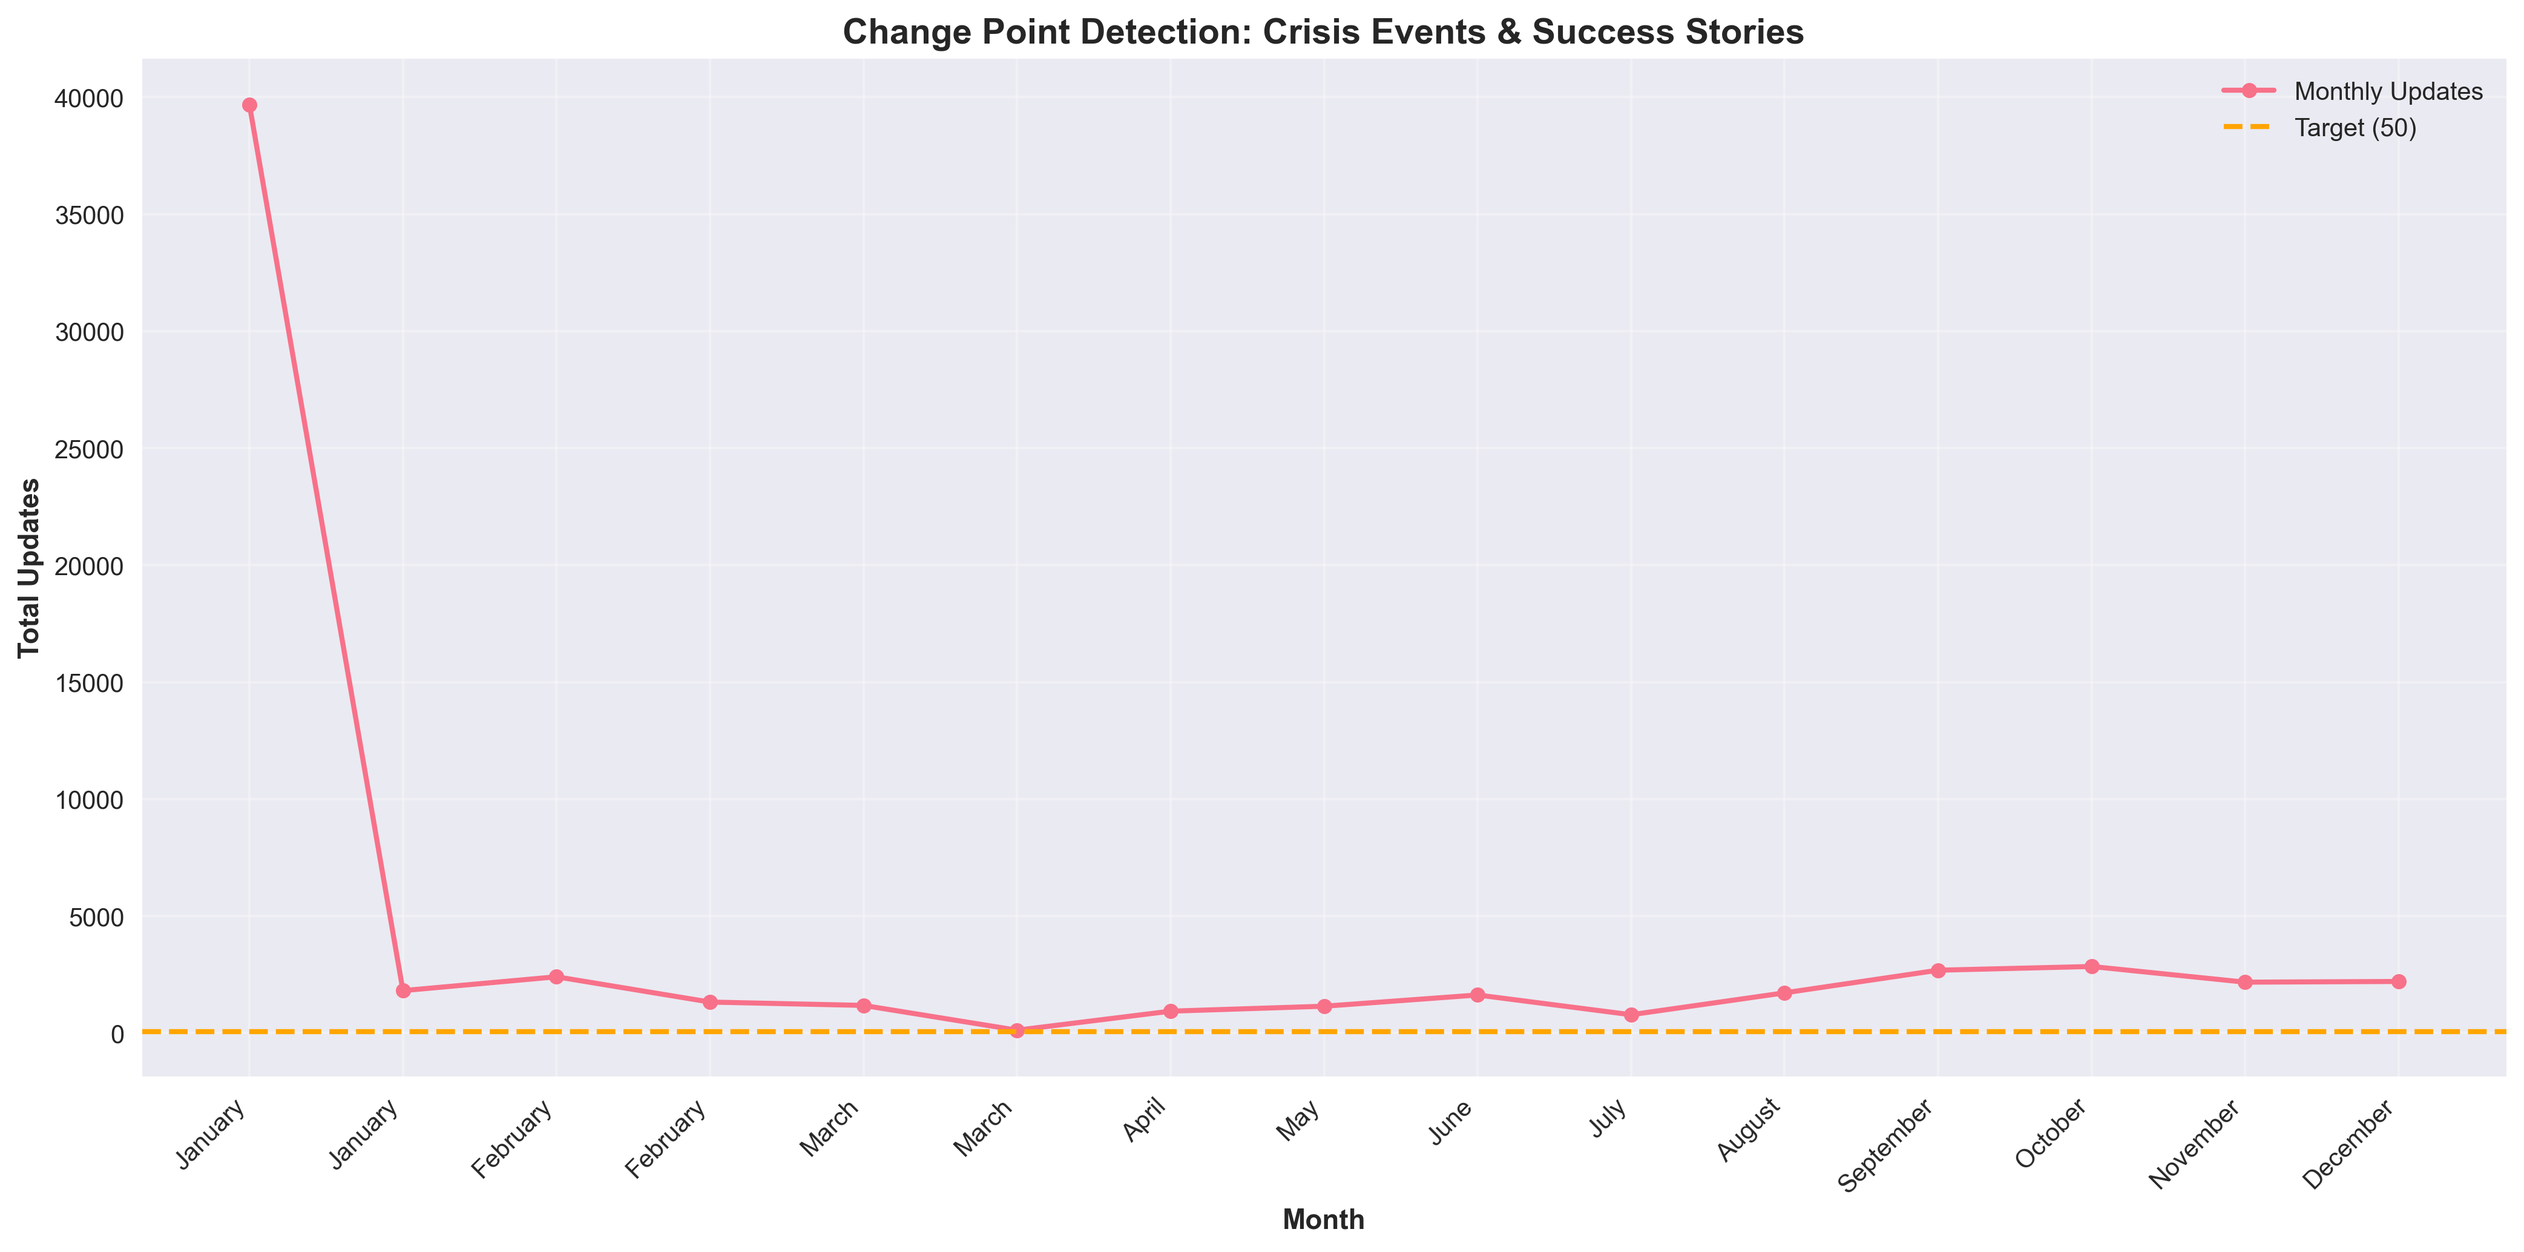
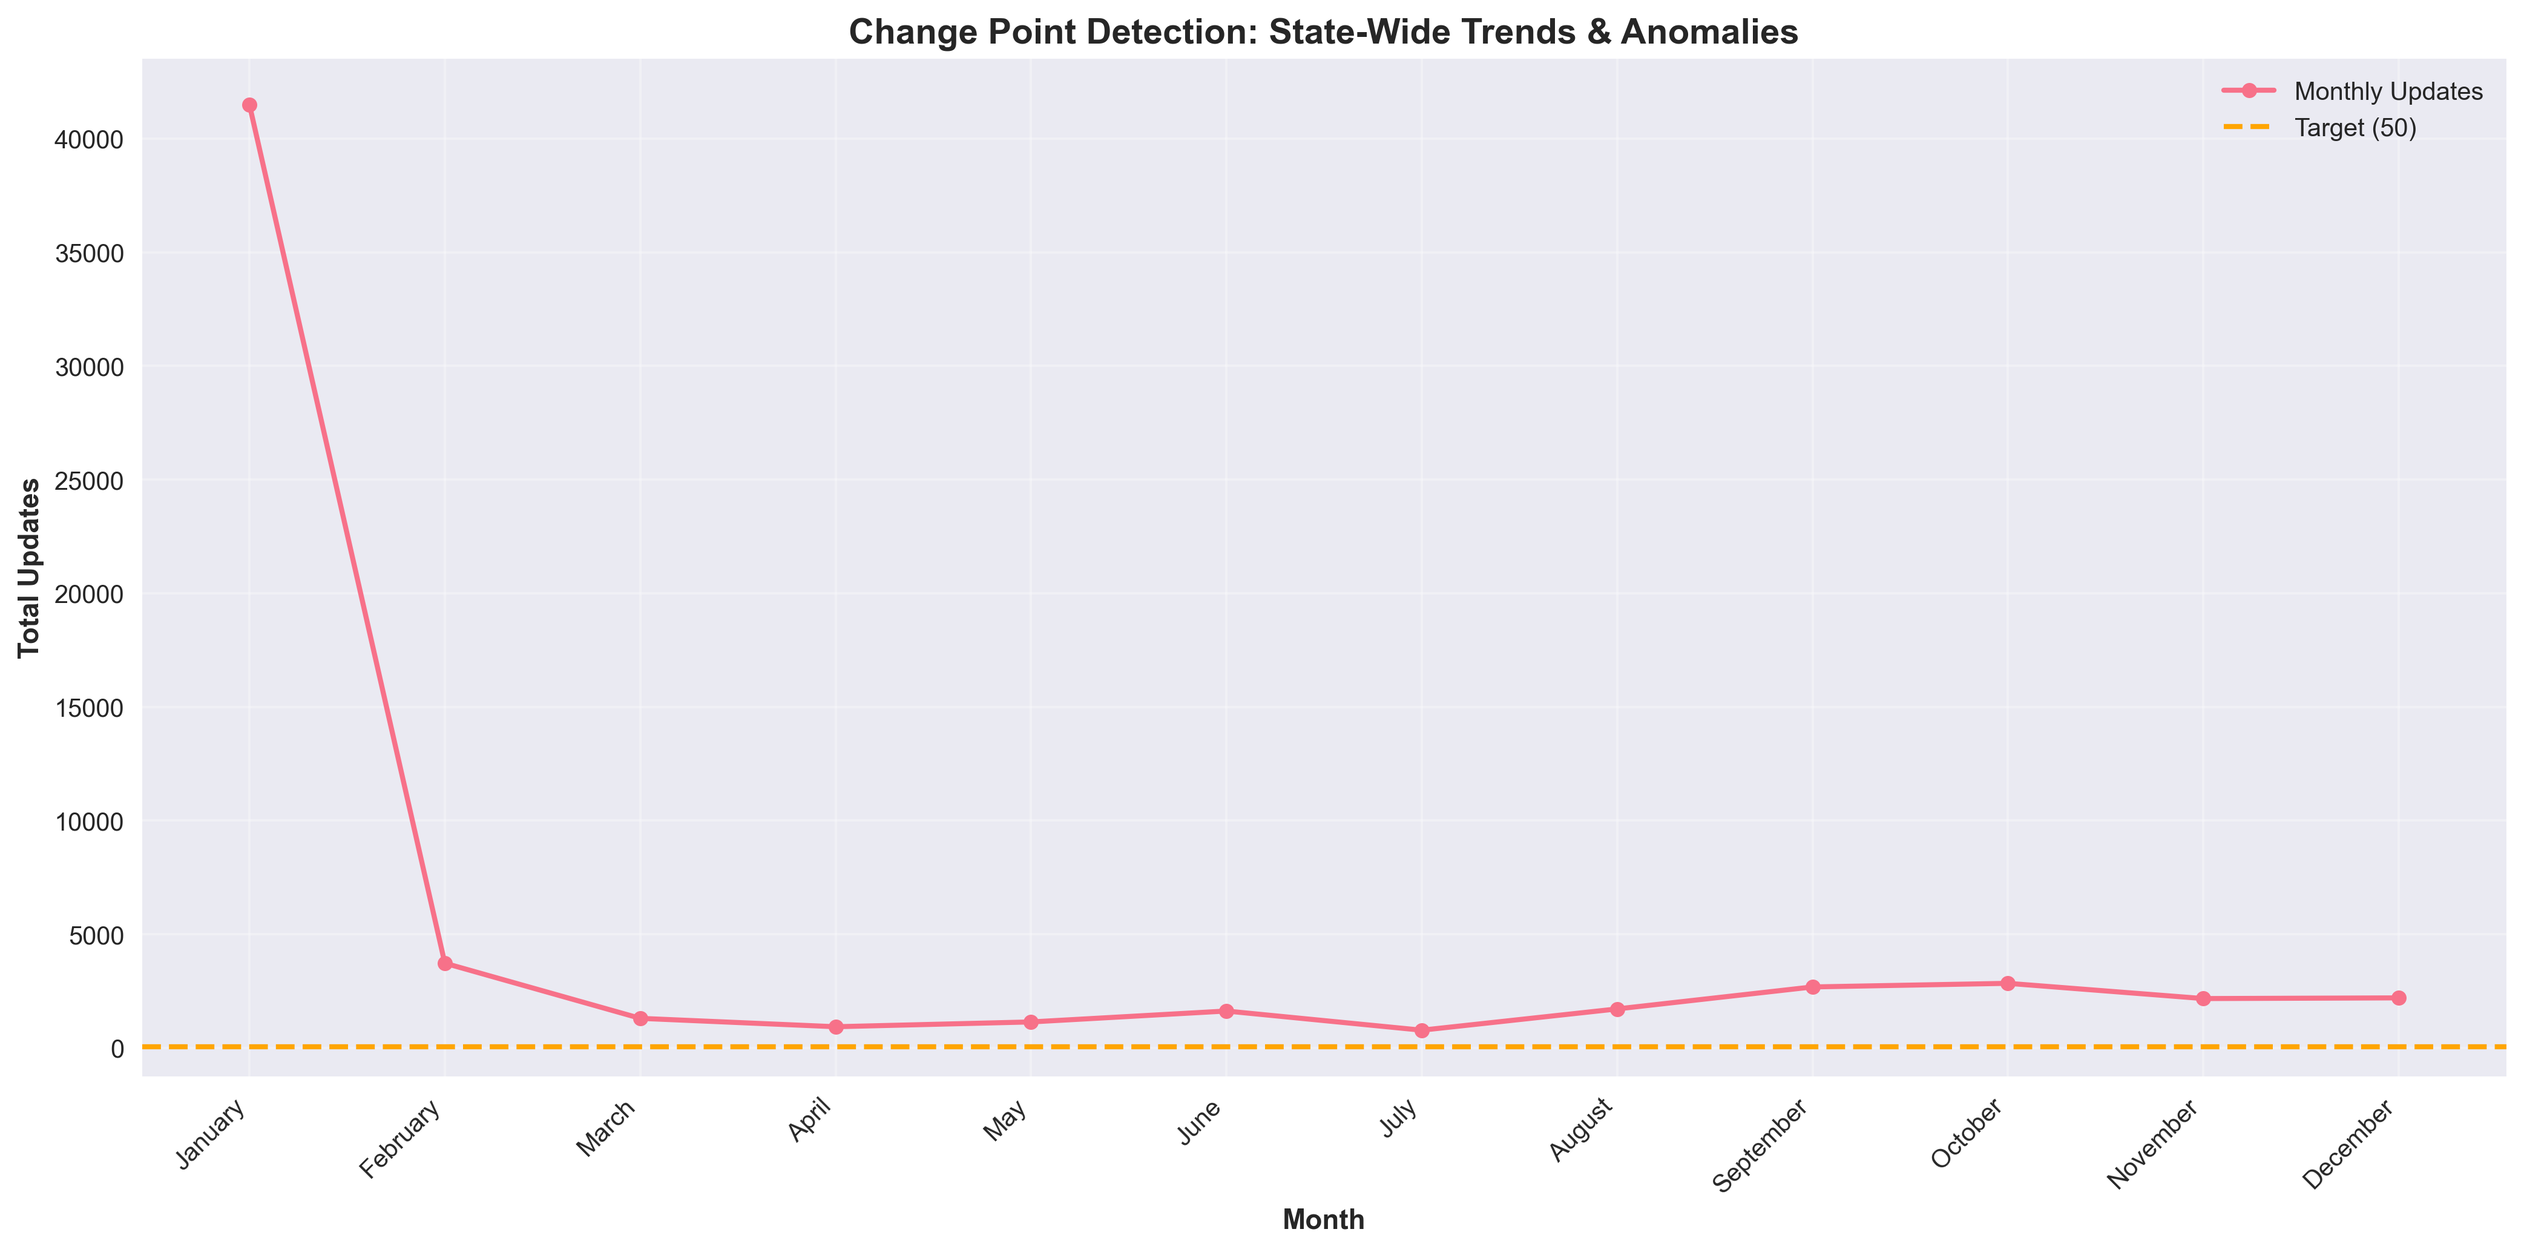
updated changes

diff --git a/src/utils/statistics.py b/src/utils/statistics.py
@@ -545,6 +545,9 @@ def plot_district_performance_dashboard(district_agg: pd.DataFrame, output_dir: 
 def plot_month_wise_heatmap(monthly_summary: pd.DataFrame, output_dir: Path):
     """Create month-wise heatmap with district names."""
     district_col = monthly_summary.columns[0]
+
+    # Grouping to combine different years into a single month entry
+    seasonal_summary = monthly_summary.groupby('month')['monthly_updates'].sum().reset_index()
     
     # Pivot for heatmap
     pivot_data = monthly_summary.pivot_table(
@@ -697,66 +700,73 @@ def plot_univariate_stats(df: pd.DataFrame, columns: list[str], output_dir: Path
 
 
 def plot_stl_decomposition(stl_df: pd.DataFrame, month_col: str, value_col: str, output_dir: Path):
-    """STL decomposition plot with policy context."""
+    """STL decomposition plot with duplicate month fix."""
     fig, axes = plt.subplots(4, 1, figsize=(14, 12))
     fig.suptitle('Temporal Decomposition: Trend, Seasonality & Anomalies', fontsize=16, fontweight='bold')
-    
+
+    # 1. FIX: Aggregate data by month to ensure each label appears only once
+    # We take the mean for trend/seasonal/residual and sum for the raw values
+    plot_df = stl_df.groupby(month_col).agg({
+        value_col: 'sum',
+        'trend': 'mean',
+        'seasonal': 'mean',
+        'residual': 'mean',
+        'meets_monthly_target': 'max',  # If any district met target, mark as met
+        'concerning_drop': 'max',
+        'trend_direction': 'first'      # Keep the general trend label
+    }).reset_index()
+
+    # 2. Re-apply categorical ordering after aggregation
     month_order = ['January', 'February', 'March', 'April', 'May', 'June', 
                    'July', 'August', 'September', 'October', 'November', 'December']
-    stl_df[month_col] = pd.Categorical(stl_df[month_col], categories=month_order, ordered=True)
-    stl_df = stl_df.sort_values(month_col)
+    plot_df[month_col] = pd.Categorical(plot_df[month_col], categories=month_order, ordered=True)
+    plot_df = plot_df.sort_values(month_col).reset_index(drop=True)
     
-    x_pos = range(len(stl_df))
+    # 3. Use a clean range for x-axis positions
+    x_pos = np.arange(len(plot_df))
     
-    axes[0].plot(x_pos, stl_df[value_col], marker='o', linewidth=2, markersize=6)
+    # --- Subplot 0: Original ---
+    axes[0].plot(x_pos, plot_df[value_col], marker='o', linewidth=2, markersize=6)
     axes[0].axhline(y=POLICY_THRESHOLDS['monthly_target'], color='red', linestyle='--', linewidth=2, label='Monthly Target')
     
-    below_target = stl_df[~stl_df['meets_monthly_target']]
+    below_target = plot_df[plot_df[value_col] < POLICY_THRESHOLDS['monthly_target']]
     if not below_target.empty:
-        below_idx = [list(stl_df[month_col]).index(m) for m in below_target[month_col]]
-        axes[0].scatter(below_idx, below_target[value_col], color='red', s=100, zorder=5, label='Below Target')
+        axes[0].scatter(below_target.index, below_target[value_col], color='red', s=100, zorder=5, label='Below Target')
     
     axes[0].set_title('Original Series (Red dots = Below Target)', fontweight='bold')
-    axes[0].set_xticks(x_pos)
-    axes[0].set_xticklabels(stl_df[month_col], rotation=45, ha='right')
-    axes[0].legend()
-    axes[0].grid(True, alpha=0.3)
-    
-    axes[1].plot(x_pos, stl_df['trend'], marker='s', linewidth=2, markersize=6)
-    
-    for i, direction in enumerate(stl_df['trend_direction']):
-        if direction == 'increasing':
-            axes[1].scatter(i, stl_df['trend'].iloc[i], color='green', s=100, zorder=5)
-        elif direction == 'decreasing':
-            axes[1].scatter(i, stl_df['trend'].iloc[i], color='red', s=100, zorder=5)
-    
+
+    # --- Subplot 1: Trend ---
+    axes[1].plot(x_pos, plot_df['trend'], marker='s', linewidth=2, markersize=6)
+    for i, direction in enumerate(plot_df['trend_direction']):
+        color = 'green' if direction == 'increasing' else 'red' if direction == 'decreasing' else 'blue'
+        if direction in ['increasing', 'decreasing']:
+            axes[1].scatter(i, plot_df['trend'].iloc[i], color=color, s=100, zorder=5)
     axes[1].set_title('Trend (Green=Increasing, Red=Decreasing)', fontweight='bold')
-    axes[1].set_xticks(x_pos)
-    axes[1].set_xticklabels(stl_df[month_col], rotation=45, ha='right')
-    axes[1].grid(True, alpha=0.3)
-    
-    axes[2].plot(x_pos, stl_df['seasonal'], marker='^', linewidth=2, markersize=6, color='purple')
+
+    # --- Subplot 2: Seasonal ---
+    axes[2].plot(x_pos, plot_df['seasonal'], marker='^', linewidth=2, markersize=6, color='purple')
     axes[2].axhline(y=0, color='black', linestyle='-', linewidth=0.5)
-    axes[2].fill_between(x_pos, 0, stl_df['seasonal'], alpha=0.3, color='purple')
+    axes[2].fill_between(x_pos, 0, plot_df['seasonal'], alpha=0.3, color='purple')
     axes[2].set_title('Seasonal Pattern', fontweight='bold')
-    axes[2].set_xticks(x_pos)
-    axes[2].set_xticklabels(stl_df[month_col], rotation=45, ha='right')
-    axes[2].grid(True, alpha=0.3)
-    
-    axes[3].plot(x_pos, stl_df['residual'], marker='o', linewidth=2, markersize=6, color='gray')
+
+    # --- Subplot 3: Residual ---
+    axes[3].plot(x_pos, plot_df['residual'], marker='o', linewidth=2, markersize=6, color='gray')
     axes[3].axhline(y=0, color='black', linestyle='-', linewidth=0.5)
     
-    concerning = stl_df[stl_df['concerning_drop']]
+    concerning = plot_df[plot_df['concerning_drop'] == True]
     if not concerning.empty:
-        concerning_idx = [list(stl_df[month_col]).index(m) for m in concerning[month_col]]
-        axes[3].scatter(concerning_idx, concerning['residual'], color='red', s=150, zorder=5, 
-                       marker='v', label='Concerning Drop (>30%)')
-    
+        axes[3].scatter(concerning.index, concerning['residual'], color='red', s=150, zorder=5, 
+                       marker='v', label='Concerning Drop')
     axes[3].set_title('Residual (Unexpected Variations)', fontweight='bold')
-    axes[3].set_xticks(x_pos)
-    axes[3].set_xticklabels(stl_df[month_col], rotation=45, ha='right')
+
+    # 4. Apply unique month labels to all subplots
+    for ax in axes:
+        ax.set_xticks(x_pos)
+        ax.set_xticklabels(plot_df[month_col], rotation=45, ha='right')
+        ax.grid(True, alpha=0.3)
+    
+    axes[0].legend()
     axes[3].legend()
-    axes[3].grid(True, alpha=0.3)
     
     plt.tight_layout()
     plt.savefig(output_dir / 'stl_decomposition_policy.png', dpi=300, bbox_inches='tight')
@@ -765,49 +775,60 @@ def plot_stl_decomposition(stl_df: pd.DataFrame, month_col: str, value_col: str,
 
 
 def plot_change_point_detection(cpd_df: pd.DataFrame, output_dir: Path):
-    """Change point detection plot with policy context."""
+    """Change point detection plot with duplicate month fix."""
     fig, ax = plt.subplots(figsize=(14, 7))
     
+    # 1. AGGREGATE: Collapse multiple rows per month into state-wide totals
+    # We sum the values and take the 'max' for categorical/boolean flags
+    plot_df = cpd_df.groupby('month').agg({
+        'value': 'sum',
+        'change_type': 'max',  # Prioritizes 'sudden_improvement' or 'crisis_drop' over 'normal'
+    }).reset_index()
+    
+    # 2. SORT: Ensure chronological order
     month_order = ['January', 'February', 'March', 'April', 'May', 'June', 
                    'July', 'August', 'September', 'October', 'November', 'December']
-    cpd_df['month'] = pd.Categorical(cpd_df['month'], categories=month_order, ordered=True)
-    cpd_df = cpd_df.sort_values('month')
+    plot_df['month'] = pd.Categorical(plot_df['month'], categories=month_order, ordered=True)
+    plot_df = plot_df.sort_values('month').reset_index(drop=True)
     
-    x_pos = range(len(cpd_df))
+    # 3. PLOT: Use unique positions
+    x_pos = np.arange(len(plot_df))
+    ax.plot(x_pos, plot_df['value'], linewidth=2, marker='o', markersize=6, label='Monthly Updates')
     
-    ax.plot(x_pos, cpd_df['value'], linewidth=2, marker='o', markersize=6, label='Monthly Updates')
-    
-    crisis_points = cpd_df[cpd_df['change_type'] == 'crisis_drop']
-    improvement_points = cpd_df[cpd_df['change_type'] == 'sudden_improvement']
+    # Identify specific change points in the aggregated data
+    crisis_points = plot_df[plot_df['change_type'] == 'crisis_drop']
+    improvement_points = plot_df[plot_df['change_type'] == 'sudden_improvement']
     
     if not crisis_points.empty:
-        crisis_idx = [list(cpd_df['month']).index(m) for m in crisis_points['month']]
-        ax.scatter(crisis_idx, crisis_points['value'], color='red', s=200, zorder=5, 
-                  marker='v', label=' Crisis Drop', edgecolors='darkred', linewidths=2)
+        ax.scatter(crisis_points.index, crisis_points['value'], color='red', s=200, zorder=5, 
+                  marker='v', label='⚠ Crisis Drop', edgecolors='darkred', linewidths=2)
         
-        for idx, row in zip(crisis_idx, crisis_points.itertuples()):
-            ax.annotate('INVESTIGATE', xy=(idx, row.value), xytext=(idx, row.value * 1.2),
+        for idx, row in crisis_points.iterrows():
+            ax.annotate('INVESTIGATE', xy=(idx, row['value']), xytext=(idx, row['value'] * 1.2),
                        arrowprops=dict(arrowstyle='->', color='red', lw=2),
                        fontsize=9, color='red', fontweight='bold', ha='center')
     
     if not improvement_points.empty:
-        improve_idx = [list(cpd_df['month']).index(m) for m in improvement_points['month']]
-        ax.scatter(improve_idx, improvement_points['value'], color='green', s=200, zorder=5, 
-                  marker='^', label=' Improvement', edgecolors='darkgreen', linewidths=2)
+        ax.scatter(improvement_points.index, improvement_points['value'], color='green', s=200, zorder=5, 
+                  marker='^', label='✅ Success!', edgecolors='darkgreen', linewidths=2)
         
-        for idx, row in zip(improve_idx, improvement_points.itertuples()):
-            ax.annotate('SUCCESS!', xy=(idx, row.value), xytext=(idx, row.value * 0.8),
+        for idx, row in improvement_points.iterrows():
+            ax.annotate('SUCCESS!', xy=(idx, row['value']), xytext=(idx, row['value'] * 0.8),
                        arrowprops=dict(arrowstyle='->', color='green', lw=2),
                        fontsize=9, color='green', fontweight='bold', ha='center')
     
+    # Target line using POLICY_THRESHOLDS
     ax.axhline(y=POLICY_THRESHOLDS['monthly_target'], color='orange', linestyle='--', 
               linewidth=2, label=f'Target ({POLICY_THRESHOLDS["monthly_target"]})')
     
-    ax.set_title('Change Point Detection: Crisis Events & Success Stories', fontsize=14, fontweight='bold')
+    ax.set_title('Change Point Detection: State-Wide Trends & Anomalies', fontsize=14, fontweight='bold')
     ax.set_xlabel('Month', fontweight='bold')
     ax.set_ylabel('Total Updates', fontweight='bold')
+    
+    # Apply unique month labels
     ax.set_xticks(x_pos)
-    ax.set_xticklabels(cpd_df['month'], rotation=45, ha='right')
+    ax.set_xticklabels(plot_df['month'], rotation=45, ha='right')
+    
     ax.legend(loc='best', fontsize=10)
     ax.grid(True, alpha=0.3)
     
@@ -956,88 +977,13 @@ def process_statistics_for_state(state: str, data_dir: str = 'Data/Processed/enr
     with open(state_reports_dir / 'statistics_results.json', 'w') as f:
         json.dump(results, f, indent=4, default=str)
     
-    # Enhanced policy brief
-    with open(state_reports_dir / 'policy_brief.txt', 'w') as f:
-        f.write(f"{'='*80}\n")
-        f.write(f"POLICY BRIEF: {state.upper()}\n")
-        f.write(f"{'='*80}\n\n")
-        
-        f.write("EXECUTIVE SUMMARY\n")
-        f.write("-" * 80 + "\n")
-        for line in policy_insights['executive_summary']:
-            f.write(f"{line}\n")
-        f.write("\n")
-        
-        f.write("CRITICAL DISTRICTS - IMMEDIATE ACTION REQUIRED\n")
-        f.write("-" * 80 + "\n")
-        for i, district in enumerate(policy_insights['critical_districts'][:15], 1):
-            f.write(f"\n{i}. {district['district_name']}\n")
-            f.write(f"   Total Updates: {district['total_updates']}\n")
-            f.write(f"   Daily Average: {district['average_daily']:.2f}\n")
-            f.write(f"   Gap from Target: {district['performance_gap']:.0f}\n")
-            f.write(f"   Priority: {district['priority']}\n")
-        f.write("\n")
-        
-        f.write("MONTH-WISE ANOMALIES - INVESTIGATION REQUIRED\n")
-        f.write("-" * 80 + "\n")
-        for i, anomaly in enumerate(policy_insights['month_wise_anomalies'][:15], 1):
-            f.write(f"\n{i}. {anomaly['district_name']} - {anomaly['month']}\n")
-            f.write(f"   Z-Score: {anomaly['z_score']:.2f}\n")
-            f.write(f"   Severity: {anomaly['severity']}\n")
-            f.write(f"   Action: {anomaly['action']}\n")
-        f.write("\n")
-        
-        f.write("SUCCESS STORIES - REPLICATE BEST PRACTICES\n")
-        f.write("-" * 80 + "\n")
-        for i, success in enumerate(policy_insights['success_stories'][:10], 1):
-            f.write(f"\n{i}. {success['district_name']}\n")
-            f.write(f"   Total Updates: {success['total_updates']}\n")
-            f.write(f"   Consistency: {success['consistency']}\n")
-            f.write(f"   Action: {success['action']}\n")
-        f.write("\n")
-        
-        f.write("PRIORITY ACTIONS\n")
-        f.write("-" * 80 + "\n")
-        for i, action in enumerate(policy_insights['priority_actions'], 1):
-            f.write(f"\n{i}. [{action['priority']}] {action['action']}\n")
-            for key, value in action.items():
-                if key not in ['priority', 'action']:
-                    f.write(f"   - {key.replace('_', ' ').title()}: {value}\n")
-        f.write("\n")
-        
-        f.write("RESOURCE ALLOCATION RECOMMENDATION\n")
-        f.write("-" * 80 + "\n")
-        f.write("\nTRAINING INVESTMENT EXPLAINED:\n")
-        f.write("Training includes: Staff capacity building, system training, process optimization,\n")
-        f.write("field support, and performance monitoring for 3 months.\n\n")
 
-    for key, value in policy_insights['resource_allocation'].items():
-        if isinstance(value, float):
-            f.write(f"- {key.replace('_', ' ').title()}: {value:.1f}\n")
-        else:
-            f.write(f"- {key.replace('_', ' ').title()}: {value}\n")
-
-# Add investment summary
-    if 'roi_percentage' in policy_insights['resource_allocation']:
-        roi = policy_insights['resource_allocation']['roi_percentage']
-        viable = policy_insights['resource_allocation']['investment_viable']
-        f.write(f"\n{'='*40}\n")
-        f.write(f"INVESTMENT SUMMARY: {viable}\n")
-        f.write(f"ROI: {roi:.1f}%\n")
-        if roi > 0:
-            f.write(f"Payback: {policy_insights['resource_allocation']['payback_period_months']:.1f} months\n")
-            f.write(f"This is a {'GOOD' if roi > 100 else 'ACCEPTABLE' if roi > 50 else 'MARGINAL'} investment.\n")
-        else:
-            f.write(f"WARNING: Negative ROI - Consider alternative strategies.\n")
-        f.write(f"{'='*40}\n")
-    
     print(f"   ✓ Results saved\n")
     
     print(f"{'='*80}")
     print(f" STATISTICS PROCESSING COMPLETED FOR {state.upper()}")
     print(f"{'='*80}\n")
     print(f" Output directory: {state_reports_dir}")
-    print(f" Policy brief: {state_reports_dir / 'policy_brief.txt'}")
     print(f" Visualizations: {len(list(state_reports_dir.glob('*.png')))} images created\n")
     
     # Clear memory
